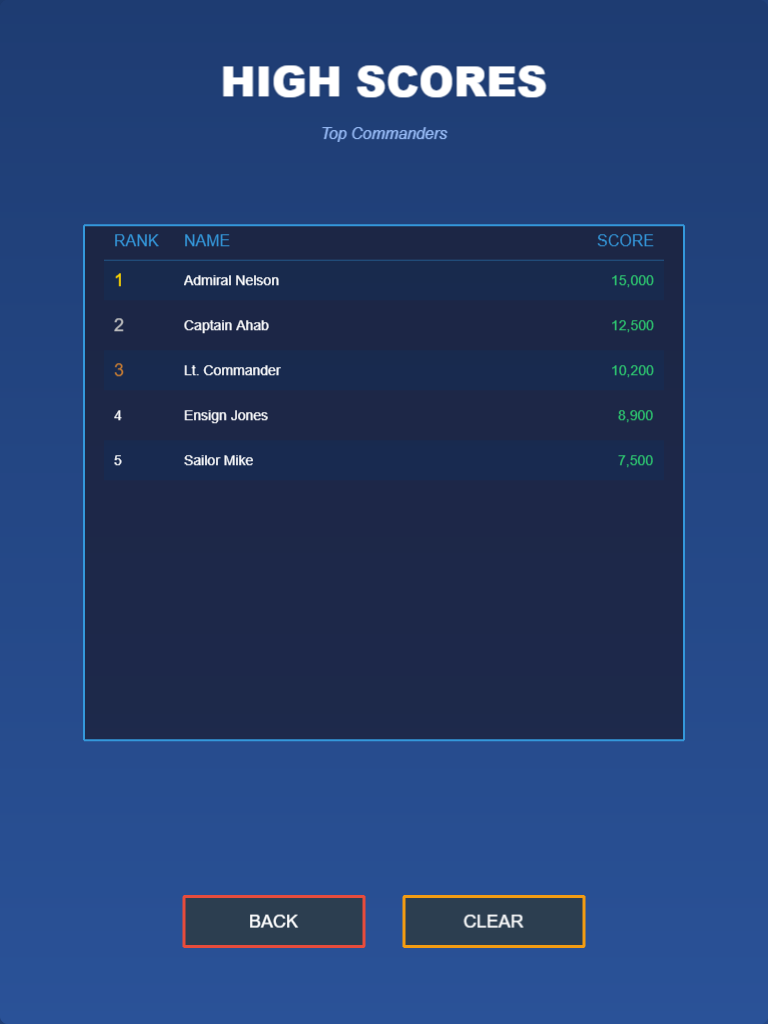
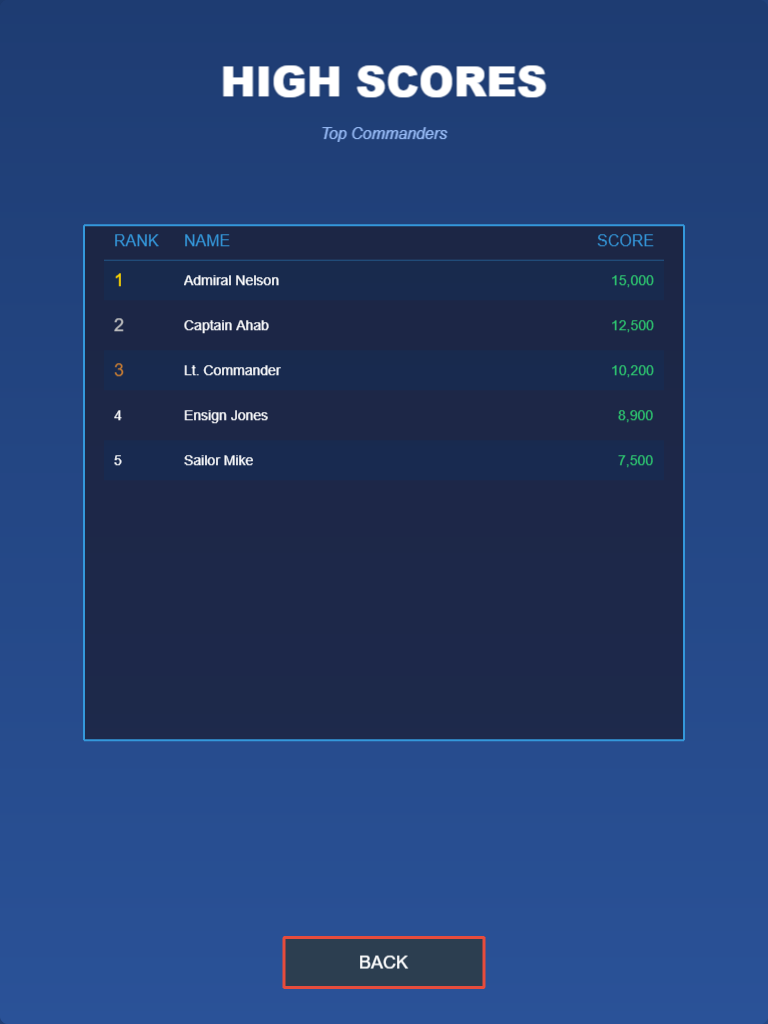
Remove CLEAR button and fix BACK button overlap with score table
HighScoresScene Changes:
- Removed CLEAR button (not required, simplified UX)
- Repositioned BACK button from 90% to 94% height (lower on screen)
- Centered BACK button (was offset, now width/2)
- Fixed table height calculation to properly reserve space for button
- Added 20px margin between table bottom and button top
- Table availableHeight now: buttonY - buttonHeight - buttonMargin - startY

This fixes the issue where buttons overlapped the score table when manually
resizing the browser window in both portrait and landscape orientations.

Verified across all 11 viewports - no overlap detected.

🤖 Generated with [Claude Code](https://claude.com/claude-code)

Changed region(s): [[0.2188, 0.875, 0.7812, 0.9688]]

diff --git a/src/scenes/HighScoresScene.js b/src/scenes/HighScoresScene.js
@@ -25,22 +25,19 @@ export class HighScoresScene extends Phaser.Scene {
 
     create() {
         const { width, height } = this.scale;
-        
+
         // Create background
         this.createBackground();
-        
+
         // Create title
         this.createTitle(width, height);
-        
+
         // Create scores table
         this.createScoresTable(width, height);
-        
+
         // Create back button
         this.createBackButton(width, height);
-        
-        // Create clear scores button (optional)
-        this.createClearButton(width, height);
-        
+
         // Setup input
         this.setupInput();
     }
@@ -82,9 +79,11 @@ export class HighScoresScene extends Phaser.Scene {
         const startY = height * 0.22;
         const tableWidth = Math.min(width * 0.9, 600);
 
-        // Calculate available height for table (leave space for buttons at bottom)
-        const buttonAreaHeight = 100; // Space for BACK/CLEAR buttons at bottom
-        const availableHeight = height - startY - buttonAreaHeight;
+        // Calculate available height for table (leave space for BACK button at bottom)
+        const buttonY = height * 0.94; // BACK button position
+        const buttonHeight = 50;
+        const buttonMargin = 20;
+        const availableHeight = buttonY - buttonHeight - buttonMargin - startY;
 
         // Adjust row height to fit available space, with min/max limits
         const maxRowHeight = 45;
@@ -198,20 +197,20 @@ export class HighScoresScene extends Phaser.Scene {
     }
 
     /**
-     * Create back button
+     * Create back button (centered at bottom)
      */
     createBackButton(width, height) {
-        const buttonY = height * 0.90;
-        const buttonWidth = Math.min(width * 0.35, 180);
+        const buttonY = height * 0.94;
+        const buttonWidth = Math.min(width * 0.4, 200);
         const buttonHeight = 50;
 
         const button = this.add.rectangle(
-            width / 2 - 110, buttonY, buttonWidth, buttonHeight, 0x2c3e50
+            width / 2, buttonY, buttonWidth, buttonHeight, 0x2c3e50
         );
         button.setStrokeStyle(3, 0xe74c3c);
         button.setInteractive({ useHandCursor: true });
 
-        const text = this.add.text(width / 2 - 110, buttonY, 'BACK', {
+        const text = this.add.text(width / 2, buttonY, 'BACK', {
             fontSize: '18px',
             fontFamily: 'Arial',
             fill: '#ffffff',
@@ -240,56 +239,6 @@ export class HighScoresScene extends Phaser.Scene {
 
         button.on('pointerdown', () => {
             this.scene.start('TitleScene');
-        });
-    }
-
-    /**
-     * Create clear scores button
-     */
-    createClearButton(width, height) {
-        const buttonY = height * 0.90;
-        const buttonWidth = Math.min(width * 0.35, 180);
-        const buttonHeight = 50;
-
-        const button = this.add.rectangle(
-            width / 2 + 110, buttonY, buttonWidth, buttonHeight, 0x2c3e50
-        );
-        button.setStrokeStyle(3, 0xf39c12);
-        button.setInteractive({ useHandCursor: true });
-
-        const text = this.add.text(width / 2 + 110, buttonY, 'CLEAR', {
-            fontSize: '18px',
-            fontFamily: 'Arial',
-            fill: '#ffffff',
-            fontWeight: 'bold'
-        }).setOrigin(0.5);
-
-        button.on('pointerover', () => {
-            button.setFillStyle(0xf39c12);
-            this.tweens.add({
-                targets: [button, text],
-                scaleX: 1.05,
-                scaleY: 1.05,
-                duration: 150
-            });
-        });
-
-        button.on('pointerout', () => {
-            button.setFillStyle(0x2c3e50);
-            this.tweens.add({
-                targets: [button, text],
-                scaleX: 1,
-                scaleY: 1,
-                duration: 150
-            });
-        });
-
-        button.on('pointerdown', () => {
-            // Confirm before clearing
-            if (confirm('Clear all high scores? This cannot be undone.')) {
-                this.clearHighScores();
-                this.scene.restart();
-            }
         });
     }
 
